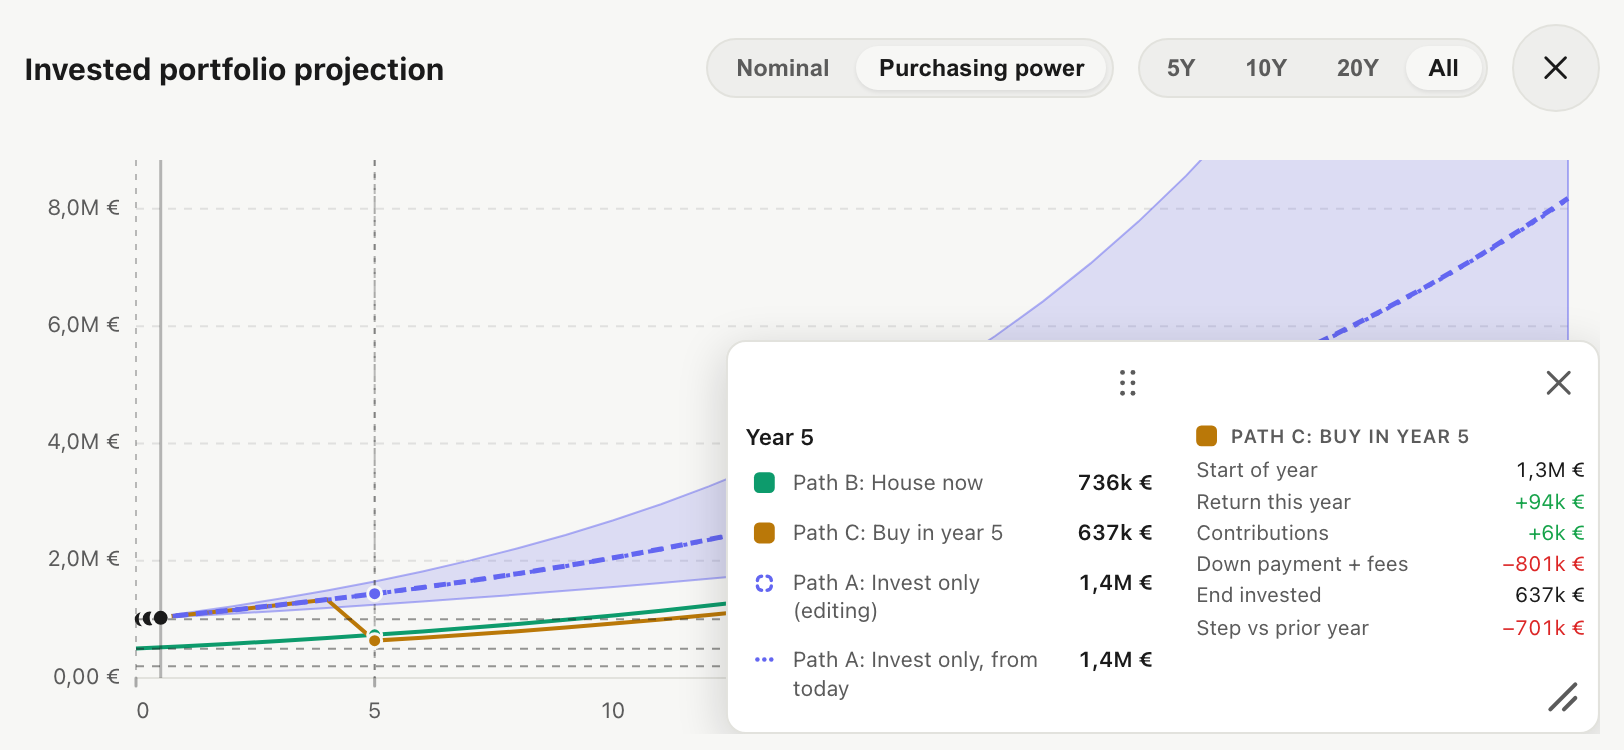
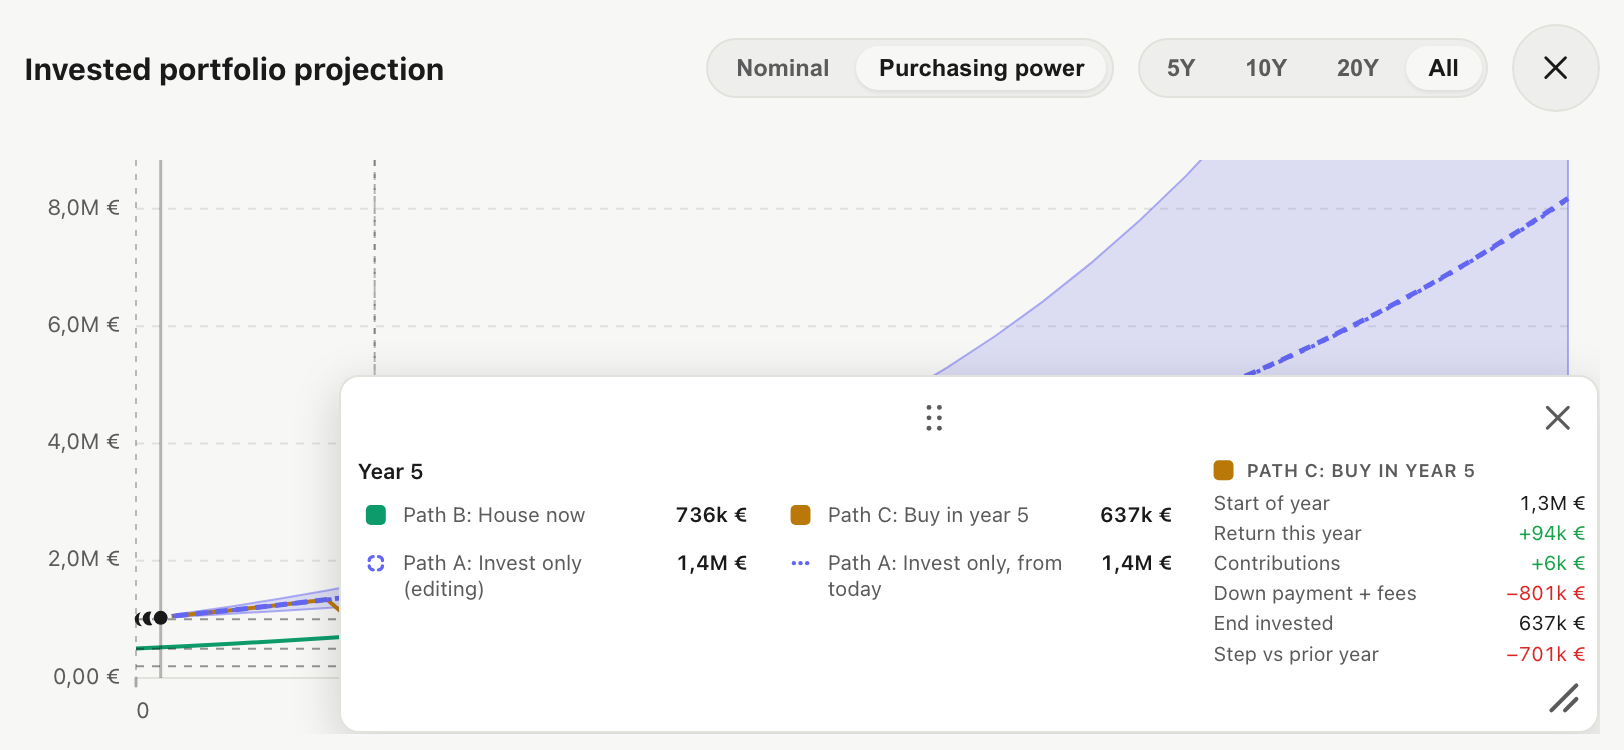
Lay the floating readout's rows out in columns, so its text is larger
With nine scenarios the card was a tall single column, which a short, wide chart could only show at about half size. The rows now go in as many columns as give the largest text, and the resize corner has a strip of its own under the rows so it never sits over a figure.

diff --git a/src/ui/hooks/cardScale.test.ts b/src/ui/hooks/cardScale.test.ts
@@ -1,5 +1,5 @@
 import { describe, expect, it } from 'vitest'
-import { MIN_SCALE, effectiveScale, scaleFromDrag, scaledSize, stepScale } from './cardScale'
+import { MIN_SCALE, effectiveScale, legendColumns, scaleFromDrag, scaledSize, stepScale } from './cardScale'
 
 const box = { width: 800, height: 300 }
 const chrome = 40
@@ -9,11 +9,11 @@ describe('effectiveScale', () => {
     expect(effectiveScale(null, box, { width: 240, height: 120 }, chrome)).toBe(1)
   })
 
-  it('is smaller, to take about two thirds of the box in the direction that is short of room, where it would not', () => {
+  it('is smaller, to take about two thirds of the height, or most of the width, of the box in the direction that is short of room, where it would not', () => {
     // 300 * 0.65 = 195, less 40 for the controls: 155 of height for content that is 310 tall.
     expect(effectiveScale(null, box, { width: 240, height: 310 }, chrome)).toBeCloseTo(0.5, 5)
-    // 800 * 0.7 = 560 of width for content that is 1120 wide.
-    expect(effectiveScale(null, box, { width: 1120, height: 100 }, chrome)).toBeCloseTo(0.5, 5)
+    // 800 * 0.8 = 640 of width for content that is 1280 wide.
+    expect(effectiveScale(null, box, { width: 1280, height: 100 }, chrome)).toBeCloseTo(0.5, 5)
   })
 
   it('is never larger than it is laid out at without being asked', () => {
@@ -79,5 +79,30 @@ describe('stepScale', () => {
   it('grows and shrinks by a tenth, and one step undoes the other', () => {
     expect(stepScale(1, 1)).toBeCloseTo(1.1, 5)
     expect(stepScale(stepScale(1, 1), -1)).toBeCloseTo(1, 10)
+  })
+})
+
+describe('legendColumns', () => {
+  it('is one column for a few rows, which fit a short box as they are', () => {
+    expect(legendColumns(3, { width: 770, height: 284 }, chrome)).toBe(1)
+  })
+
+  it('lays a long list out side by side in a wide, short box, so that it is drawn larger', () => {
+    // Nine rows are 342px tall in one column, in a box that has about 115px of height for them.
+    expect(legendColumns(9, { width: 770, height: 284 }, chrome)).toBe(3)
+  })
+
+  it('does not add a column that makes it wider than the box can show at a larger scale', () => {
+    // A tall, narrow box has the height for one column and not the width for two.
+    expect(legendColumns(9, { width: 300, height: 600 }, chrome)).toBe(1)
+  })
+
+  it('is one column where there is nothing to measure, or less than two rows', () => {
+    expect(legendColumns(9, { width: 0, height: 0 }, chrome)).toBe(1)
+    expect(legendColumns(1, { width: 770, height: 284 }, chrome)).toBe(1)
+  })
+
+  it('never uses more columns than there are rows', () => {
+    expect(legendColumns(2, { width: 2000, height: 200 }, chrome)).toBeLessThanOrEqual(2)
   })
 })

diff --git a/src/ui/tabs/goals/charts/heroSheet/HeroFloatingReadout.tsx b/src/ui/tabs/goals/charts/heroSheet/HeroFloatingReadout.tsx
@@ -3,10 +3,18 @@ import { CloseIcon, GripIcon, ResizeCornerIcon } from '../../../../icons'
 import { exitVars } from '../../../../hooks/motion'
 import { useExit } from '../../../../hooks/usePresence'
 import type { Placement, Turn } from '../../../../hooks/cardPlacement'
+import { legendColumns } from '../../../../hooks/cardScale'
+import { useElementSize } from '../../../../hooks/useElementSize'
 import { useFloatingCard } from '../../../../hooks/useFloatingCard'
 import { ReadoutLegend } from './HeroReadoutParts'
 import type { Readout } from './useReadout'
 import styles from './HeroChartSheet.module.css'
+
+/** Unmeasured, as in a test: the card is then one column. */
+const NO_SIZE = { width: 0, height: 0 }
+
+/** The bar of controls above the rows and the foot under them, which are not scaled (2.5rem and 1.5rem). */
+const CHROME_HEIGHT = 64
 
 /**
  * The readout as a card over the chart, with all of it shown: taken by its grip and put anywhere in
@@ -43,11 +51,14 @@ export function HeroFloatingReadout({
 }) {
   const card = useRef<HTMLDivElement>(null)
   const bar = useRef<HTMLDivElement>(null)
+  const foot = useRef<HTMLDivElement>(null)
   const content = useRef<HTMLDivElement>(null)
   const grip = useRef<HTMLButtonElement>(null)
   const corner = useRef<HTMLButtonElement>(null)
   const { leaving, exitMs } = useExit()
-  useFloatingCard({ stage, card, bar, content, grip, corner, placement, choice, turn, frozen: leaving })
+  const box = useElementSize(stage, NO_SIZE, true)
+  const columns = legendColumns(readout.items.length, box, CHROME_HEIGHT)
+  useFloatingCard({ stage, card, bar, foot, content, grip, corner, placement, choice, turn, frozen: leaving })
   useLayoutEffect(() => {
     if (focusOnMount) grip.current?.focus()
   }, [focusOnMount])
@@ -75,9 +86,10 @@ export function HeroFloatingReadout({
         </div>
         <div className={styles.floatViewport}>
           <div ref={content} className={styles.floatContent}>
-            <ReadoutLegend readout={readout} beside />
+            <ReadoutLegend readout={readout} beside columns={columns} />
           </div>
         </div>
+        <div ref={foot} className={styles.floatFoot} />
         <button
           ref={corner}
           type="button"

diff --git a/src/ui/hooks/cardScale.ts b/src/ui/hooks/cardScale.ts
@@ -5,7 +5,7 @@ import type { Size } from './useElementSize'
 export const MIN_SCALE = 0.25
 
 /** How much of its box a card takes by default, and at most. Never all of it: it must have room to move. */
-const COMFORT = { width: 0.7, height: 0.65 }
+const COMFORT = { width: 0.8, height: 0.65 }
 const LIMIT = { width: 0.9, height: 0.9 }
 
 /** How much a step of the keys grows or shrinks a card by. */
@@ -60,4 +60,38 @@ export function scaleFromDrag(scale: number, content: Size, delta: Point): numbe
 /** One step larger or smaller, for the keys. */
 export function stepScale(scale: number, direction: 1 | -1): number {
   return direction === 1 ? scale * STEP : scale / STEP
+}
+
+/**
+ * What a row of a legend takes at the size it is laid out at, and what the card has besides its
+ * rows: estimates in pixels, with a name that wraps to two lines, so that a card with more rows than
+ * a short, wide box can hold in a column is laid out in more of them before it is scaled.
+ */
+const ROW = { width: 240, gap: 16, height: 38 }
+const BESIDES = { width: 20, height: 30 }
+const MOST_COLUMNS = 4
+
+/**
+ * How many columns to lay `rows` out in so that the card, drawn as large as is comfortable in `box`,
+ * has the largest text: more of them while that makes the card wider and no taller than the box can
+ * show at a larger scale, and never more than it gains from. `chrome` is the bar above the rows. A
+ * box that is not measured gets one column.
+ */
+export function legendColumns(rows: number, box: Size, chrome: number): number {
+  if (!(box.width > 0) || !(box.height > 0) || rows < 2) return 1
+  let best = 1
+  let bestScale = 0
+  for (let columns = 1; columns <= Math.min(rows, MOST_COLUMNS); columns++) {
+    const natural = {
+      width: columns * ROW.width + (columns - 1) * ROW.gap + BESIDES.width,
+      height: Math.ceil(rows / columns) * ROW.height + BESIDES.height,
+    }
+    // Drawn at its natural size at most, so a column that only makes room that is not used is not one.
+    const scale = Math.min(1, fit(box, natural, chrome, COMFORT))
+    if (scale > bestScale + 0.001) {
+      best = columns
+      bestScale = scale
+    }
+  }
+  return best
 }

diff --git a/src/ui/tabs/goals/charts/ScenarioSeriesLegend.tsx b/src/ui/tabs/goals/charts/ScenarioSeriesLegend.tsx
@@ -1,4 +1,4 @@
-import type { ReactNode, Ref } from 'react'
+import type { CSSProperties, ReactNode, Ref } from 'react'
 import type { PurchaseYearBreakdown } from '../../../../engine'
 import { LiveLegend, SeriesSwatch, type LiveLegendItem } from '../../../charts/LiveLegend'
 import { formatMoneyShort, formatSignedMoneyShort } from '../chartTheme'
@@ -42,6 +42,8 @@ interface ScenarioSeriesLegendProps {
    * and not taller. For a card that has to be whole in a box that is short.
    */
   extrasBeside?: boolean | undefined
+  /** With `extrasBeside`, how many columns the rows are laid out in; a card in a wide, short box wants more than one. */
+  columns?: number | undefined
 }
 
 function BreakdownRows({
@@ -137,9 +139,9 @@ function legendHint(override: string | undefined, togglable: boolean): string {
 }
 
 /** The rows in a column and the purchase breakdown in another, each at its own width; no column when there is none. */
-function Beside({ main, extras }: { main: ReactNode; extras: ReactNode }) {
+function Beside({ main, extras, columns }: { main: ReactNode; extras: ReactNode; columns: number | undefined }) {
   return (
-    <div className={styles.beside}>
+    <div className={styles.beside} style={{ '--legend-cols': columns ?? 1 } as CSSProperties}>
       <div className={styles.besideMain}>{main}</div>
       <div className={styles.besideExtras}>{extras}</div>
     </div>
@@ -158,6 +160,7 @@ export function ScenarioSeriesLegend({
   floatSide = 'end',
   hint: hintOverride,
   extrasBeside,
+  columns,
 }: ScenarioSeriesLegendProps) {
   const format = useMoneyFormat()
   if (items.length === 0) return null
@@ -192,7 +195,7 @@ export function ScenarioSeriesLegend({
       />
     </>
   )
-  if (extrasBeside) return <Beside main={main} extras={extras} />
+  if (extrasBeside) return <Beside main={main} extras={extras} columns={columns} />
 
   return (
     <div className={layout === 'chips' ? `${styles.wrap} ${styles.wrapWide}` : styles.wrap}>

diff --git a/src/ui/tabs/goals/charts/heroSheet/HeroChartSheet.test.tsx b/src/ui/tabs/goals/charts/heroSheet/HeroChartSheet.test.tsx
@@ -321,7 +321,10 @@ describe('the readout floated over the chart', () => {
     vi.spyOn(Element.prototype, 'clientWidth', 'get').mockReturnValue(700)
     vi.spyOn(Element.prototype, 'clientHeight', 'get').mockReturnValue(300)
     vi.spyOn(HTMLElement.prototype, 'offsetWidth', 'get').mockReturnValue(200)
-    vi.spyOn(HTMLElement.prototype, 'offsetHeight', 'get').mockReturnValue(40)
+    // Everything is 40 tall but the foot, which is the room under the rows for the corner.
+    vi.spyOn(HTMLElement.prototype, 'offsetHeight', 'get').mockImplementation(function (this: HTMLElement) {
+      return this.className.includes('floatFoot') ? 0 : 40
+    })
     await open()
     await userEvent.click(within(dialog()).getByRole('button', FLOAT))
     const place = () => (card()!.parentElement as HTMLElement).style.transform
@@ -355,7 +358,10 @@ describe('the readout floated over the chart', () => {
     vi.spyOn(Element.prototype, 'clientWidth', 'get').mockReturnValue(700)
     vi.spyOn(Element.prototype, 'clientHeight', 'get').mockReturnValue(300)
     vi.spyOn(HTMLElement.prototype, 'offsetWidth', 'get').mockReturnValue(200)
-    vi.spyOn(HTMLElement.prototype, 'offsetHeight', 'get').mockReturnValue(40)
+    // Everything is 40 tall but the foot, which is the room under the rows for the corner.
+    vi.spyOn(HTMLElement.prototype, 'offsetHeight', 'get').mockImplementation(function (this: HTMLElement) {
+      return this.className.includes('floatFoot') ? 0 : 40
+    })
     await open()
     await userEvent.click(within(dialog()).getByRole('button', FLOAT))
     const scaleOf = () => (card()!.querySelector('[class*="floatContent"]') as HTMLElement).style.transform

diff --git a/src/ui/hooks/useFloatingCard.ts b/src/ui/hooks/useFloatingCard.ts
@@ -17,6 +17,7 @@ export function useFloatingCard({
   stage,
   card,
   bar,
+  foot,
   content,
   grip,
   corner,
@@ -28,6 +29,7 @@ export function useFloatingCard({
   stage: RefObject<HTMLElement | null>
   card: RefObject<HTMLElement | null>
   bar: RefObject<HTMLElement | null>
+  foot: RefObject<HTMLElement | null>
   content: RefObject<HTMLElement | null>
   grip: RefObject<HTMLElement | null>
   corner: RefObject<HTMLElement | null>
@@ -47,15 +49,17 @@ export function useFloatingCard({
       stage: stage.current,
       card: card.current,
       bar: bar.current,
+      foot: foot.current,
       content: content.current,
       grip: grip.current,
       corner: corner.current,
     }
-    if (frozen || !els.stage || !els.card || !els.bar || !els.content || !els.grip || !els.corner) return
+    if (frozen || !els.stage || !els.card || !els.bar || !els.foot || !els.content || !els.grip || !els.corner) return
     return attachFloatingCard({
       stage: els.stage,
       card: els.card,
       bar: els.bar,
+      foot: els.foot,
       content: els.content,
       grip: els.grip,
       corner: els.corner,
@@ -63,5 +67,5 @@ export function useFloatingCard({
       choice,
       turn: () => turnNow.current,
     })
-  }, [stage, card, bar, content, grip, corner, placement, choice, frozen])
+  }, [stage, card, bar, foot, content, grip, corner, placement, choice, frozen])
 }

diff --git a/src/ui/hooks/useFloatingCard.test.tsx b/src/ui/hooks/useFloatingCard.test.tsx
@@ -32,10 +32,11 @@ function Harness({ turn = 0, frozen = false }: { turn?: Turn; frozen?: boolean }
   const stage = useRef<HTMLDivElement>(null)
   const card = useRef<HTMLDivElement>(null)
   const bar = useRef<HTMLDivElement>(null)
+  const foot = useRef<HTMLDivElement>(null)
   const content = useRef<HTMLDivElement>(null)
   const grip = useRef<HTMLButtonElement>(null)
   const corner = useRef<HTMLButtonElement>(null)
-  useFloatingCard({ stage, card, bar, content, grip, corner, placement, choice, turn, frozen })
+  useFloatingCard({ stage, card, bar, foot, content, grip, corner, placement, choice, turn, frozen })
   // jsdom lays nothing out, so the sizes the hook reads are planted when the elements arrive.
   const plant = (el: HTMLElement | null, sizeOf: () => { width?: number; height: number }, keys: [string, string]) => {
     if (!el) return
@@ -67,6 +68,7 @@ function Harness({ turn = 0, frozen = false }: { turn?: Turn; frozen?: boolean }
           }}
           data-testid="content"
         />
+        <div ref={foot} />
         <button ref={corner} type="button">
           Size
         </button>

diff --git a/src/ui/hooks/floatingCardLayout.ts b/src/ui/hooks/floatingCardLayout.ts
@@ -9,6 +9,8 @@ export interface CardElements {
   card: HTMLElement
   /** The controls along the card's top, which are not scaled. */
   bar: HTMLElement
+  /** The room under the content that the resize corner takes, which is not scaled either. */
+  foot: HTMLElement
   /** What the card says, laid out at its own size and drawn scaled. */
   content: HTMLElement
 }
@@ -45,7 +47,7 @@ const px = (value: number) => `${Math.round(value * 100) / 100}px`
  * it outlives the card.
  */
 export function createLayout(
-  { stage, card, bar, content }: CardElements,
+  { stage, card, bar, foot, content }: CardElements,
   placement: { current: Placement },
   choice: { current: number | null },
 ): CardLayout {
@@ -57,7 +59,7 @@ export function createLayout(
 
   const resize = (wanted: number | null) => {
     const own = natural()
-    const chrome = bar.offsetHeight
+    const chrome = bar.offsetHeight + foot.offsetHeight
     scale = effectiveScale(wanted, box(), own, chrome)
     size = scaledSize(own, chrome, scale)
     content.style.transform = `scale(${scale})`

diff --git a/src/ui/tabs/goals/charts/heroSheet/HeroReadoutParts.tsx b/src/ui/tabs/goals/charts/heroSheet/HeroReadoutParts.tsx
@@ -10,9 +10,10 @@ const HINT = 'Touch the chart to read a year. Tap a scenario to hide or show its
 
 /**
  * The readout's rows, the same whether it is in the rail or in the card that floats over the chart.
- * `beside` puts a purchase year's breakdown in a column of its own, for the card.
+ * `beside` puts a purchase year's breakdown in a column of its own, for the card, and `columns` lays
+ * its rows out side by side.
  */
-export function ReadoutLegend({ readout, beside }: { readout: Readout; beside?: boolean }) {
+export function ReadoutLegend({ readout, beside, columns }: { readout: Readout; beside?: boolean; columns?: number }) {
   return (
     <ScenarioSeriesLegend
       items={readout.items}
@@ -24,6 +25,7 @@ export function ReadoutLegend({ readout, beside }: { readout: Readout; beside?: 
       layout="rows"
       hint={HINT}
       extrasBeside={beside}
+      columns={columns}
     />
   )
 }

diff --git a/src/ui/tabs/goals/charts/ScenarioSeriesLegend.module.css b/src/ui/tabs/goals/charts/ScenarioSeriesLegend.module.css
@@ -182,8 +182,15 @@
 }
 
 .besideMain {
-  flex: 0 0 15rem;
+  flex: 0 0 calc(var(--legend-cols, 1) * 15rem + (var(--legend-cols, 1) - 1) * 1rem);
   min-width: 0;
+}
+
+/* The rows in as many columns as the card is given, each as wide as the one column was. */
+.besideMain > ul {
+  display: grid;
+  grid-template-columns: repeat(var(--legend-cols, 1), minmax(0, 1fr));
+  column-gap: 1rem;
 }
 
 /* At least 14rem, and as wide as its rows need: a font that is wider than the one this was set for

diff --git a/src/ui/tabs/goals/charts/heroSheet/HeroChartSheet.module.css b/src/ui/tabs/goals/charts/heroSheet/HeroChartSheet.module.css
@@ -148,6 +148,12 @@
   margin-top: 0;
 }
 
+/* The room the resize corner takes under the rows, so that it is never over a figure. */
+.floatFoot {
+  flex: none;
+  height: 1.5rem;
+}
+
 /* The corner that resizes the card: a fixed size, over the card's corner, whatever the scale. */
 .corner {
   position: absolute;

diff --git a/docs/CHANGELOG.md b/docs/CHANGELOG.md
@@ -8,7 +8,7 @@ Checked in Chromium and in Safari's engine, upright at 375x812 and on its side a
 
 - **The Invested portfolio projection opens full screen on a phone.** A button at the end of the card's title opens the chart over the whole screen, turned a quarter turn when the phone is held upright (with a line that says to turn it to the left), as the milestone sheet is. Thirty years get about 17px each across instead of about 8, and the plot is taller.
 - **A rail beside the chart reads the year.** It lists every line's value in the year you touch, with the purchase breakdown under it, and tapping a scenario there still hides or shows its line. The year stays when you lift your finger, and a screen reader is told it once the year settles.
-- **The readout can float over the chart.** A control in the rail takes the rail away, so the chart has the whole width, and the same readout becomes a card over it that you drag by its grip, or move with the arrow keys, anywhere inside the chart. It is always shown whole, with nothing to scroll: a corner makes the whole card larger or smaller, and in a year with a purchase its breakdown is a column beside the scenarios. It stays until its cross puts it back in the rail, and it never leaves the chart or covers the bar. The sheet always opens with the rail.
+- **The readout can float over the chart.** A control in the rail takes the rail away, so the chart has the whole width, and the same readout becomes a card over it that you drag by its grip, or move with the arrow keys, anywhere inside the chart. It is always shown whole, with nothing to scroll: a corner makes the whole card larger or smaller, and in a year with a purchase its breakdown is a column beside the scenarios. With more scenarios than a short, wide chart has the height for, the scenarios are laid out in columns too, so the card is wide and not tall and its text stays as large as it can be. It stays until its cross puts it back in the rail, and it never leaves the chart or covers the bar. The sheet always opens with the rail.
 - **The bar has the window buttons and the Nominal / Purchasing power switch**, and the window buttons are the card's own, so closing the sheet leaves the card as you set it.
 
 ## October 2026 (Analytics, made clearer)
